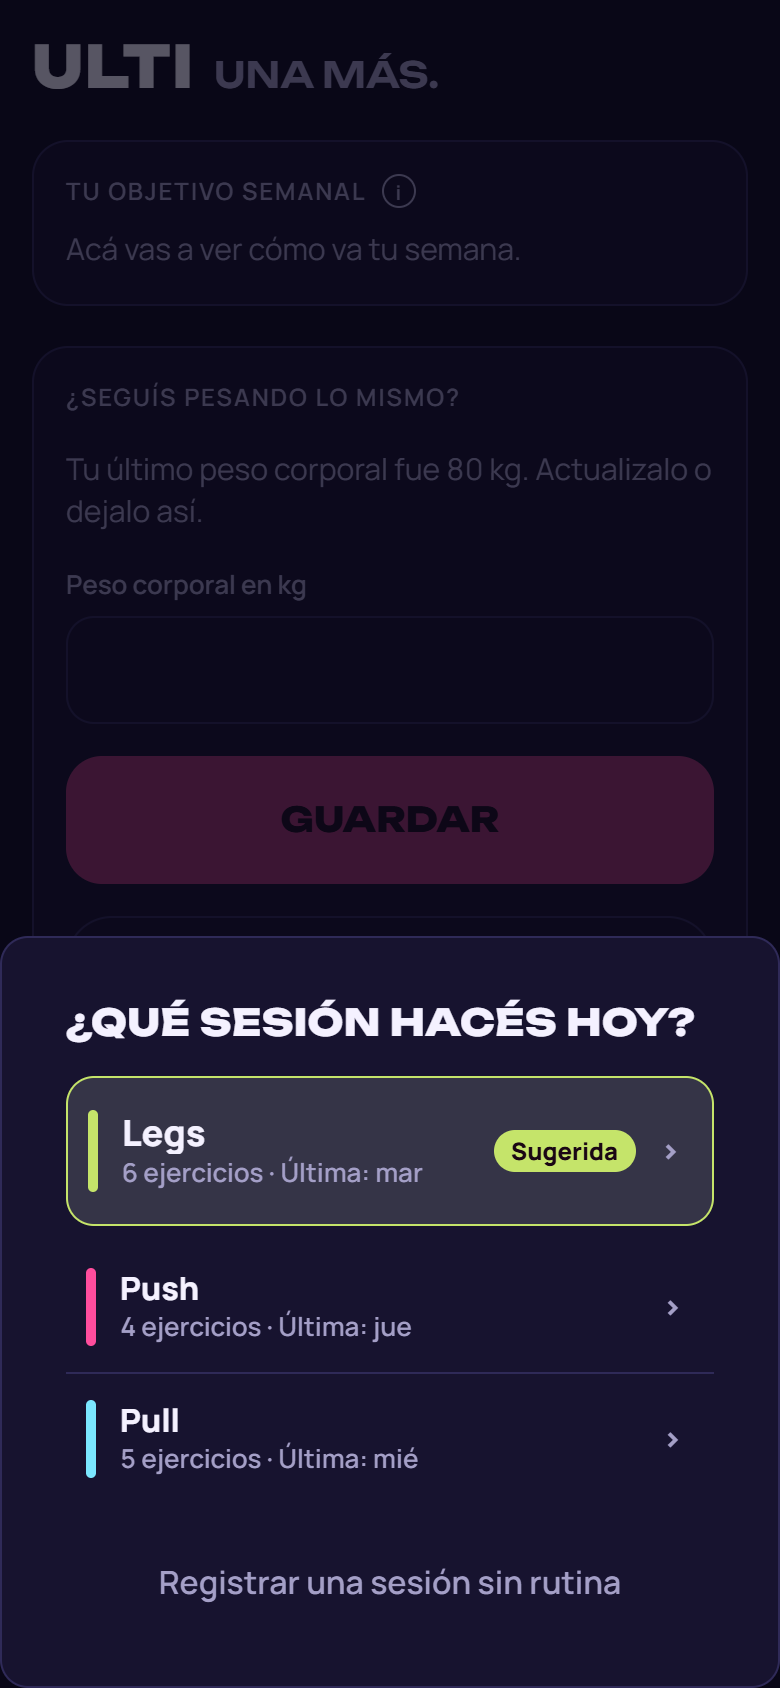
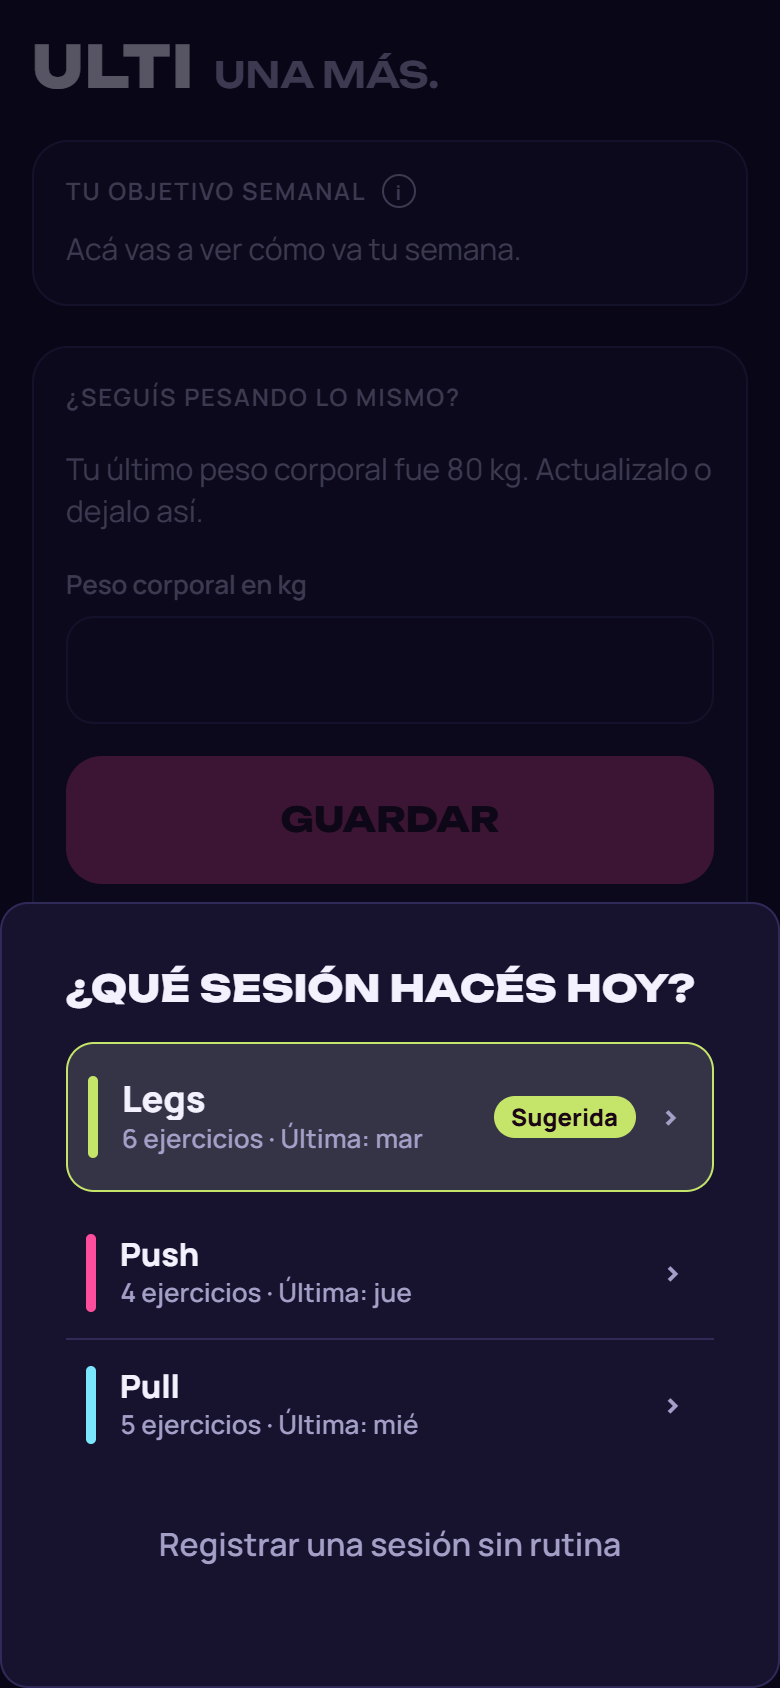
Sheets: safe-area inset no longer stacks on the bottom padding; Day sheet link trimmed; 34px-inset screenshots (#161)

Changed region(s): [[0.0615, 0.5545, 0.9231, 0.955], [0.9846, 0.5237, 1.0, 0.5853]]

diff --git a/app/src/styles.css b/app/src/styles.css
@@ -431,7 +431,7 @@ button {
   display: flex;
   flex-direction: column;
   gap: 12px;
-  padding: 20px max(16px, env(safe-area-inset-right, 0px)) calc(14px + env(safe-area-inset-bottom, 0px))
+  padding: 20px max(16px, env(safe-area-inset-right, 0px)) max(14px, env(safe-area-inset-bottom, 0px))
     max(16px, env(safe-area-inset-left, 0px));
 }
 .sheet-title {
@@ -2417,8 +2417,13 @@ prefers-reduced-motion switches every animation off, so it stays off the badge. 
   flex: 0 1 auto;
   min-height: 0;
 }
+.sheet.pick .sheet-body {
+  padding-bottom: env(safe-area-inset-bottom, 0px);
+}
 .sheet.pick .btn-link {
   flex-shrink: 0;
+  min-height: 44px;
+  padding-block: 0;
 }
 .days-scroll {
   flex: 0 1 auto;
